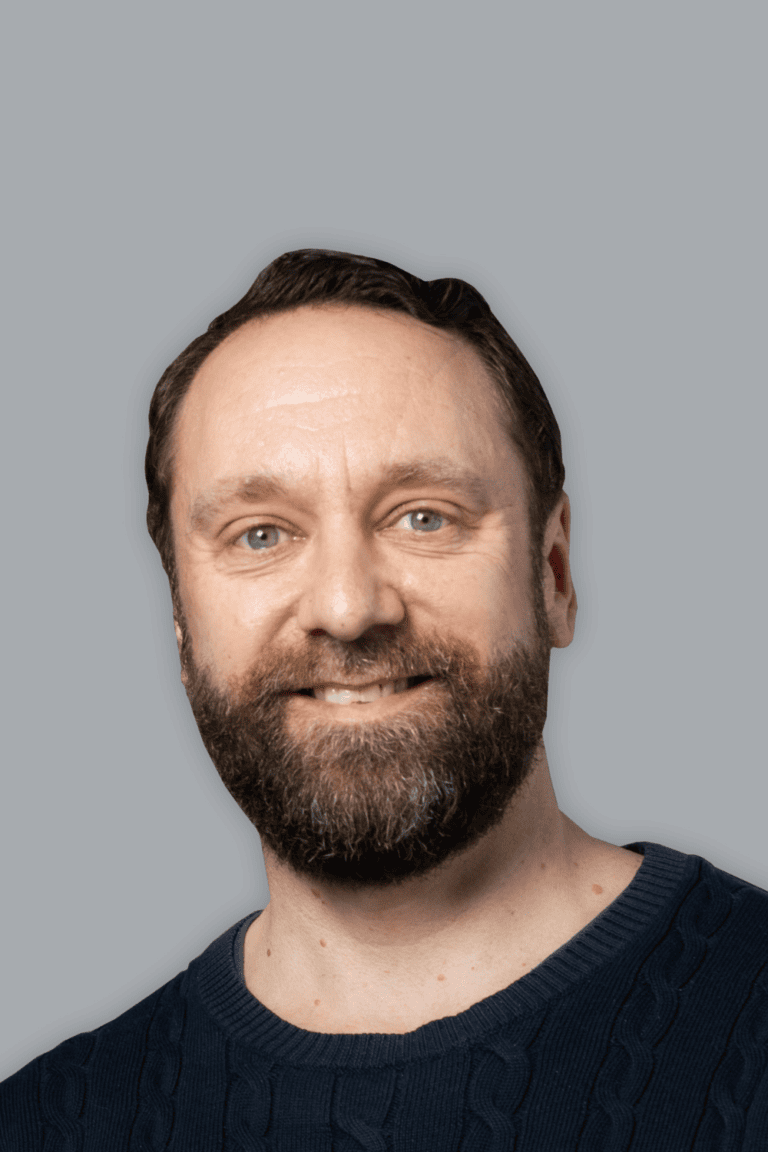
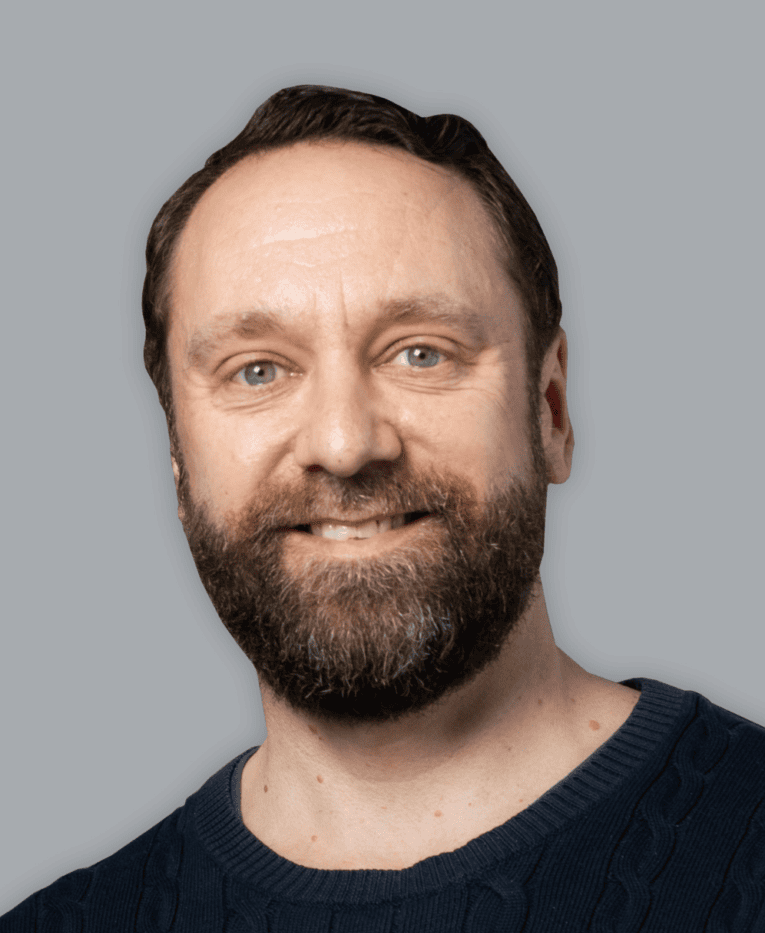
updates

diff --git a/index.html b/index.html
@@ -66,7 +66,7 @@
                 <li><time>10:45</time><div><h3 style="color: rgba(0, 0, 255, 0.5); font-size: 24px;">FastML Foundation and the Next Phase of Open AI Hardware Innovation</h3><p style="color: rgba(0, 0, 0); font-size: 22px;"><strong>Phil Harris</strong> </p> <i>Massachusetts Institute of Technology</i></p></div></li>
                 <li><time>11:15</time><div><h3 style="color: rgba(0, 0, 255, 0.5); font-size: 24px;">Open Source Software Ecosystems</h3><p style="color: rgba(0, 0, 0); font-size: 22px;"><strong>TBC</strong> </p> <i>TBD</i></div></li>
                 <li><time>11:45</time><div><h3 style="color: rgba(0, 0, 255, 0.5); font-size: 24px;">Real-Time AI for Science: The Accelerated AI Institute for Data-Driven Discovery</h3><p style="color: rgba(0, 0, 0); font-size: 22px;"><strong>Shih-Chieh Hsu</strong> </p> <i>University of Washington</i></div></li>
-                <li><time>12:15</time><div><h3 style="color: rgba(0, 0, 255, 0.5); font-size: 24px;">Real-Time AI for Fusion Energy Research</h3><p style="color: rgba(0, 0, 0); font-size: 22px;"><strong>TBC</strong> </p> <i>TBD</i></div></li>
+                <li><time>12:15</time><div><h3 style="color: rgba(0, 0, 255, 0.5); font-size: 24px;">Real-Time AI for Fusion Energy Research</h3><p style="color: rgba(0, 0, 0); font-size: 22px;"><strong>Tom Gibbs</strong> </p> <i>NVIDIA</i></div></li>
                 <li><time>12:30</time><div><h3 style="color: rgba(0, 48, 58, 0.46); font-size: 24px;">Lunch &amp; Networking</h3></div></li>
                 <li><time>13:45</time><div><h3 style="color: rgba(0, 0, 255, 0.5); font-size: 24px;">Robot Intelligence through the Perception Laboratory at TTI-Chicago</h3><p style="color: rgba(0, 0, 0); font-size: 22px;"><strong>Matthew Walter</strong></p> <i>Toyota Technological Institute at Chicago</i></div></li>
                 <li><time>14:15</time><div><h3 style="color: rgba(0, 0, 255, 0.5); font-size: 24px;">Safe, Robust, and Secure Learning for Embodied AI Systems</h3><p style="color: rgba(0, 0, 0); font-size: 22px;"><strong>Qi Zhu</strong></p> <i>Northwestern University</i></div></li>
@@ -97,7 +97,7 @@
                 <li><time>14:45</time><div><h3 style="color: rgba(0, 48, 58, 0.46); font-size: 24px;">Coffee Break</h3></div></li>
                 <li><time>15:00</time><div><h3 style="color: rgba(0, 0, 255, 0.5); font-size: 24px;">Building Collective Intelligence for Autonomous Discovery at DATAERAI</h3><p style="color: rgba(0, 0, 0); font-size: 22px;"><strong>Joshua Agar</strong> </p> <i>Dataerai</i></div></li>
                 <li><time>15:20</time><div><h3 style="color: rgba(0, 0, 255, 0.5); font-size: 24px;">AI / Machine Health / Edge Intelligence at BY-AITECH </h3><p style="color: rgba(0, 0, 0); font-size: 22px;"><strong>Shih-Chieh Hsu</strong> </p> <i>University of Washington</i></div></li>
-                <li><time>15:20</time><div><h3 style="color: rgba(0, 0, 255, 0.5); font-size: 24px;">Workforce Talk </h3><p style="color: rgba(0, 0, 0); font-size: 22px;"><strong>TBC</strong> </p> <i>TBD</i></div></li>
+                <li><time>15:20</time><div><h3 style="color: rgba(0, 0, 255, 0.5); font-size: 24px;">Responsible AI in the Generative Era </h3><p style="color: rgba(0, 0, 0); font-size: 22px;"><strong>Anne Lee</strong> </p> <i>Bell Labs Fellow</i></div></li>
                 <li><time>16:00</time><div><h3 style="color: rgba(0, 0, 255, 0.5); font-size: 24px;">Panel: Workforce Development for the AI / Quantum Hardware Era</h3></div></li>
                 <li><time>16:45</time><div><h3 style="color: rgba(0, 0, 255, 0.5); font-size: 24px;">Summary / Closeout / Next Steps</h3></div></li>
               </ol>
@@ -259,6 +259,14 @@
               <h4>Andrew Lytle</h4>
               <small>Illinois Quantum &amp; Microelectronics Park</small>
               <small><i>Program Manager for Quantum Algorithms R &amp; D</i></small>
+            </article>
+            <article class="placeholder-card profile-card">
+              <a class="portrait-link" href="https://www.linkedin.com/in/anne-lee-81025b5" target="_blank" rel="noreferrer" aria-label="Anne Lee's biography">
+                <img src="img/Anne-Lee.jpg" alt="Anne Lee" />
+              </a>
+              <h4>Anne Lee</h4>
+              <small>Bell Labs Fellow &amp; Advisor</small>
+              <small><i>Women in AI USA</i></small>
             </article>
           </div>
         </section>
